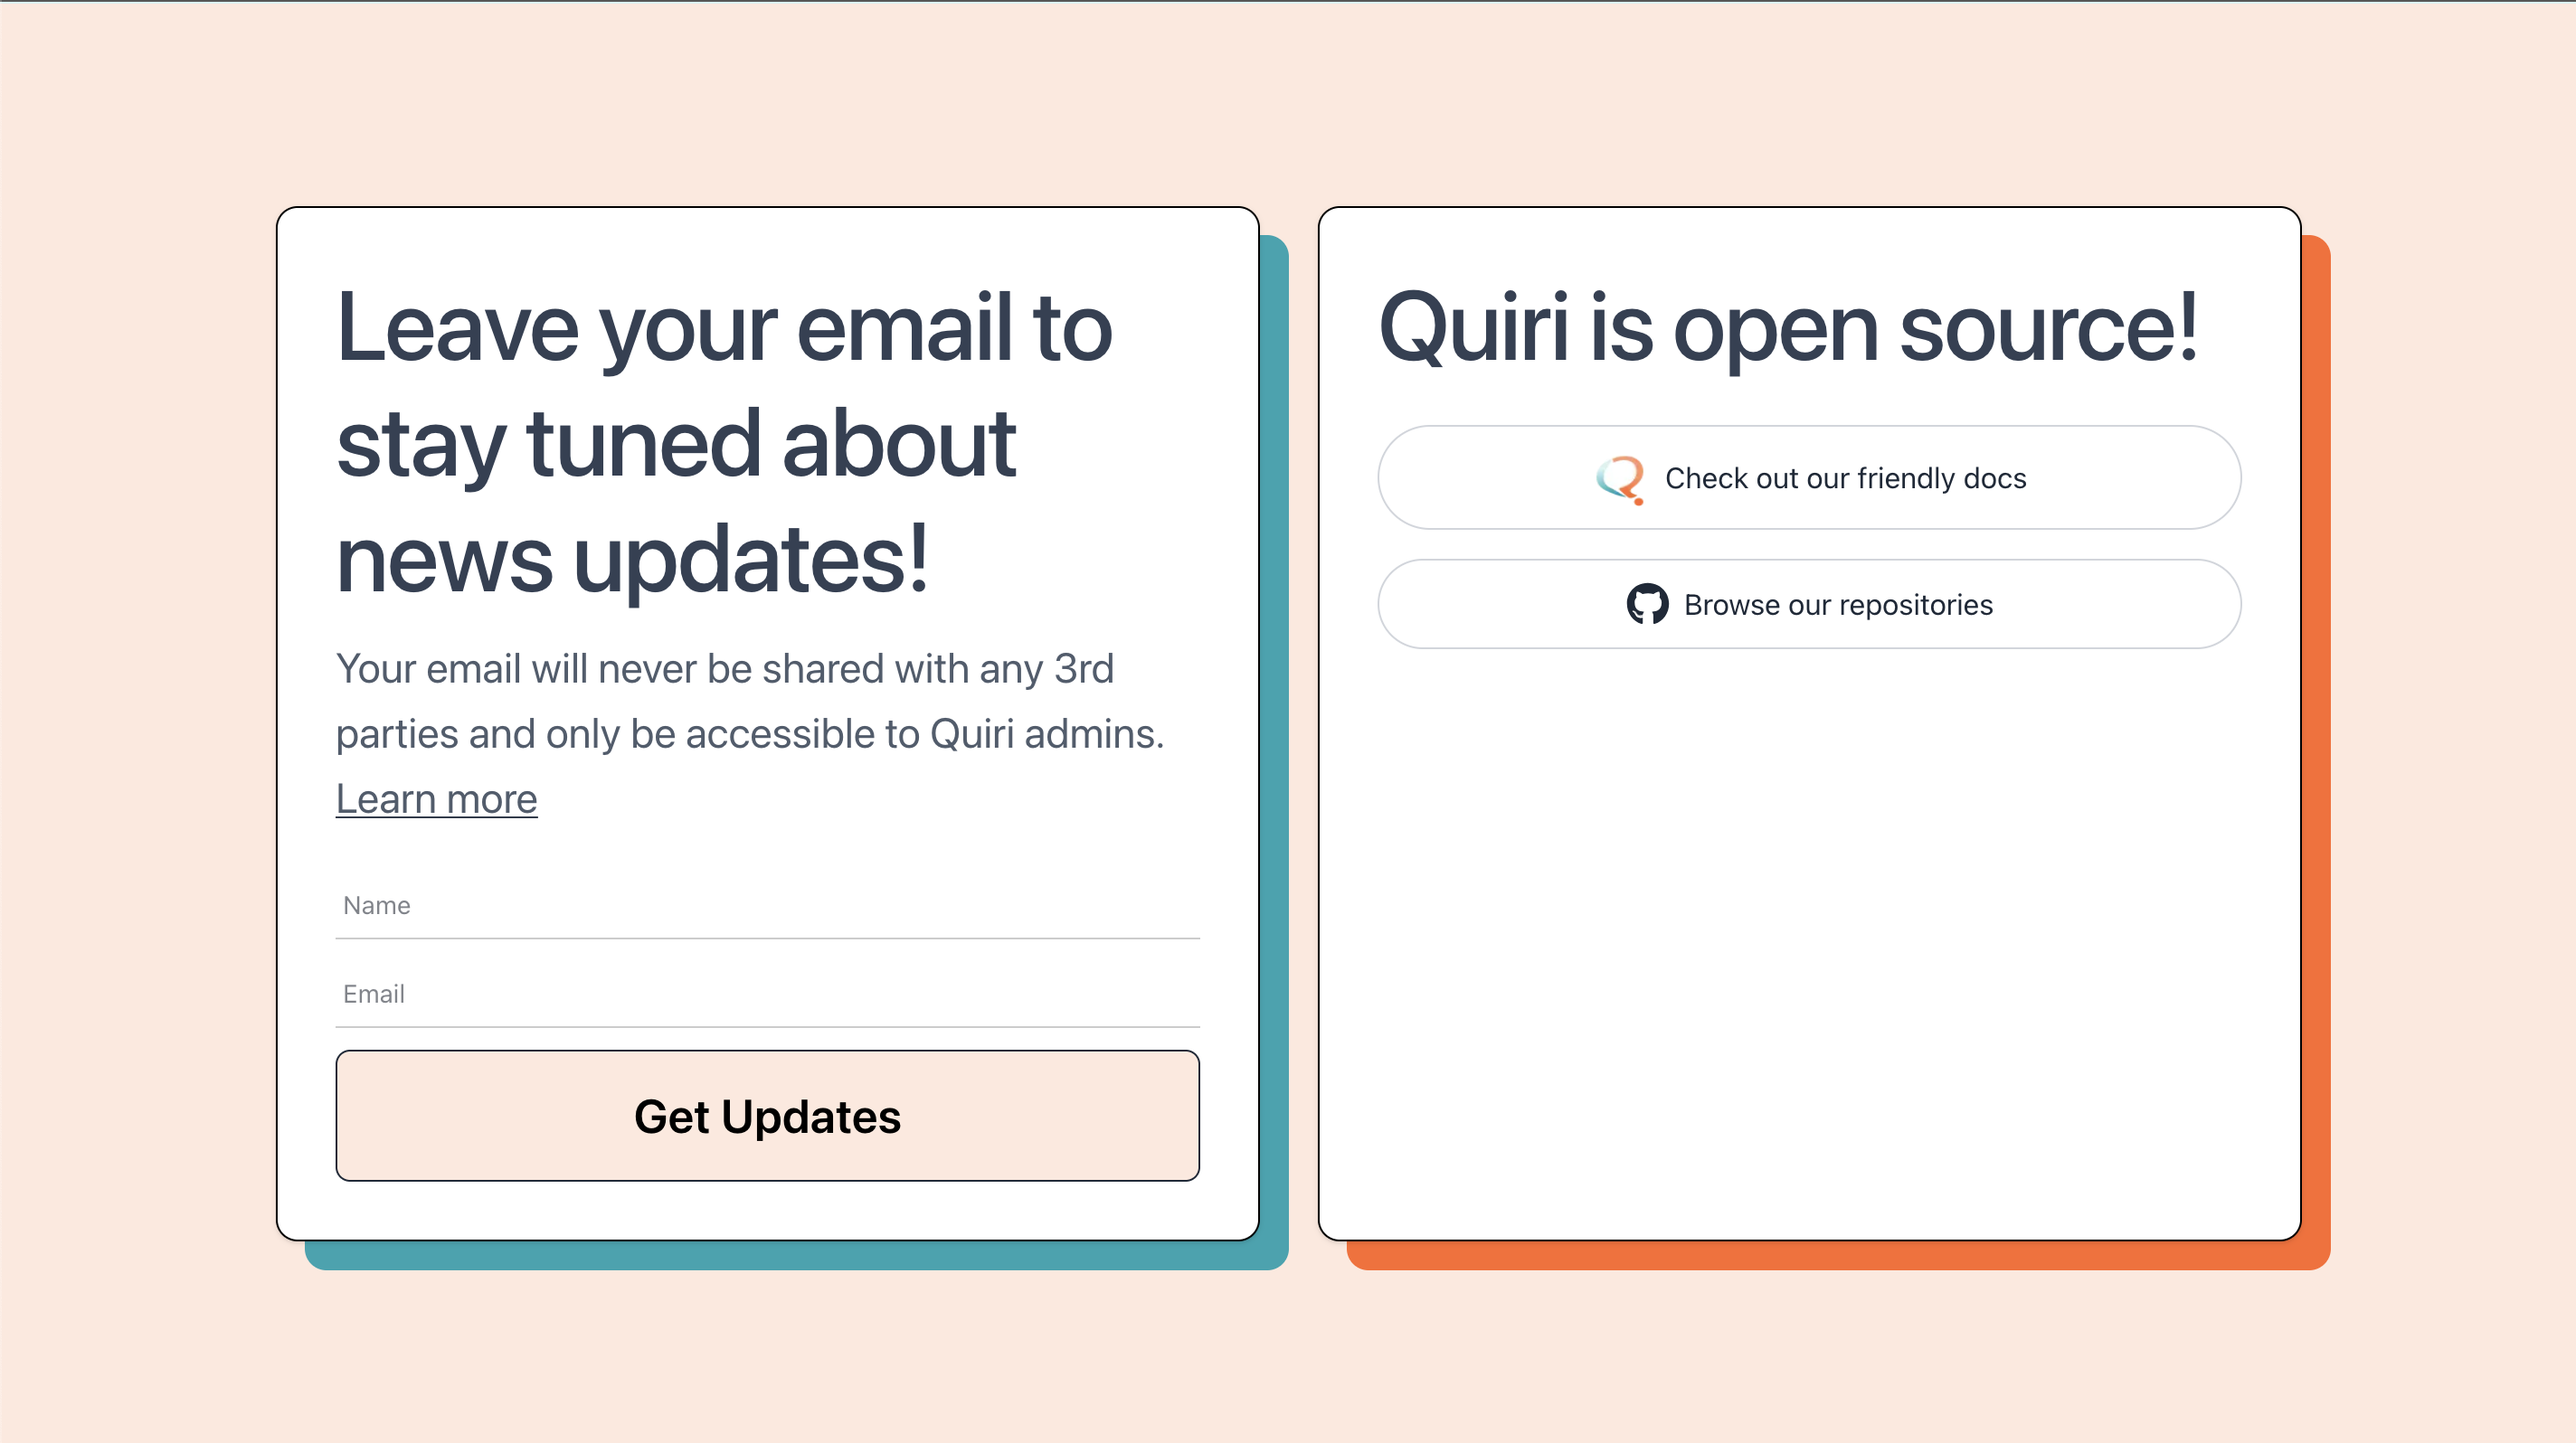
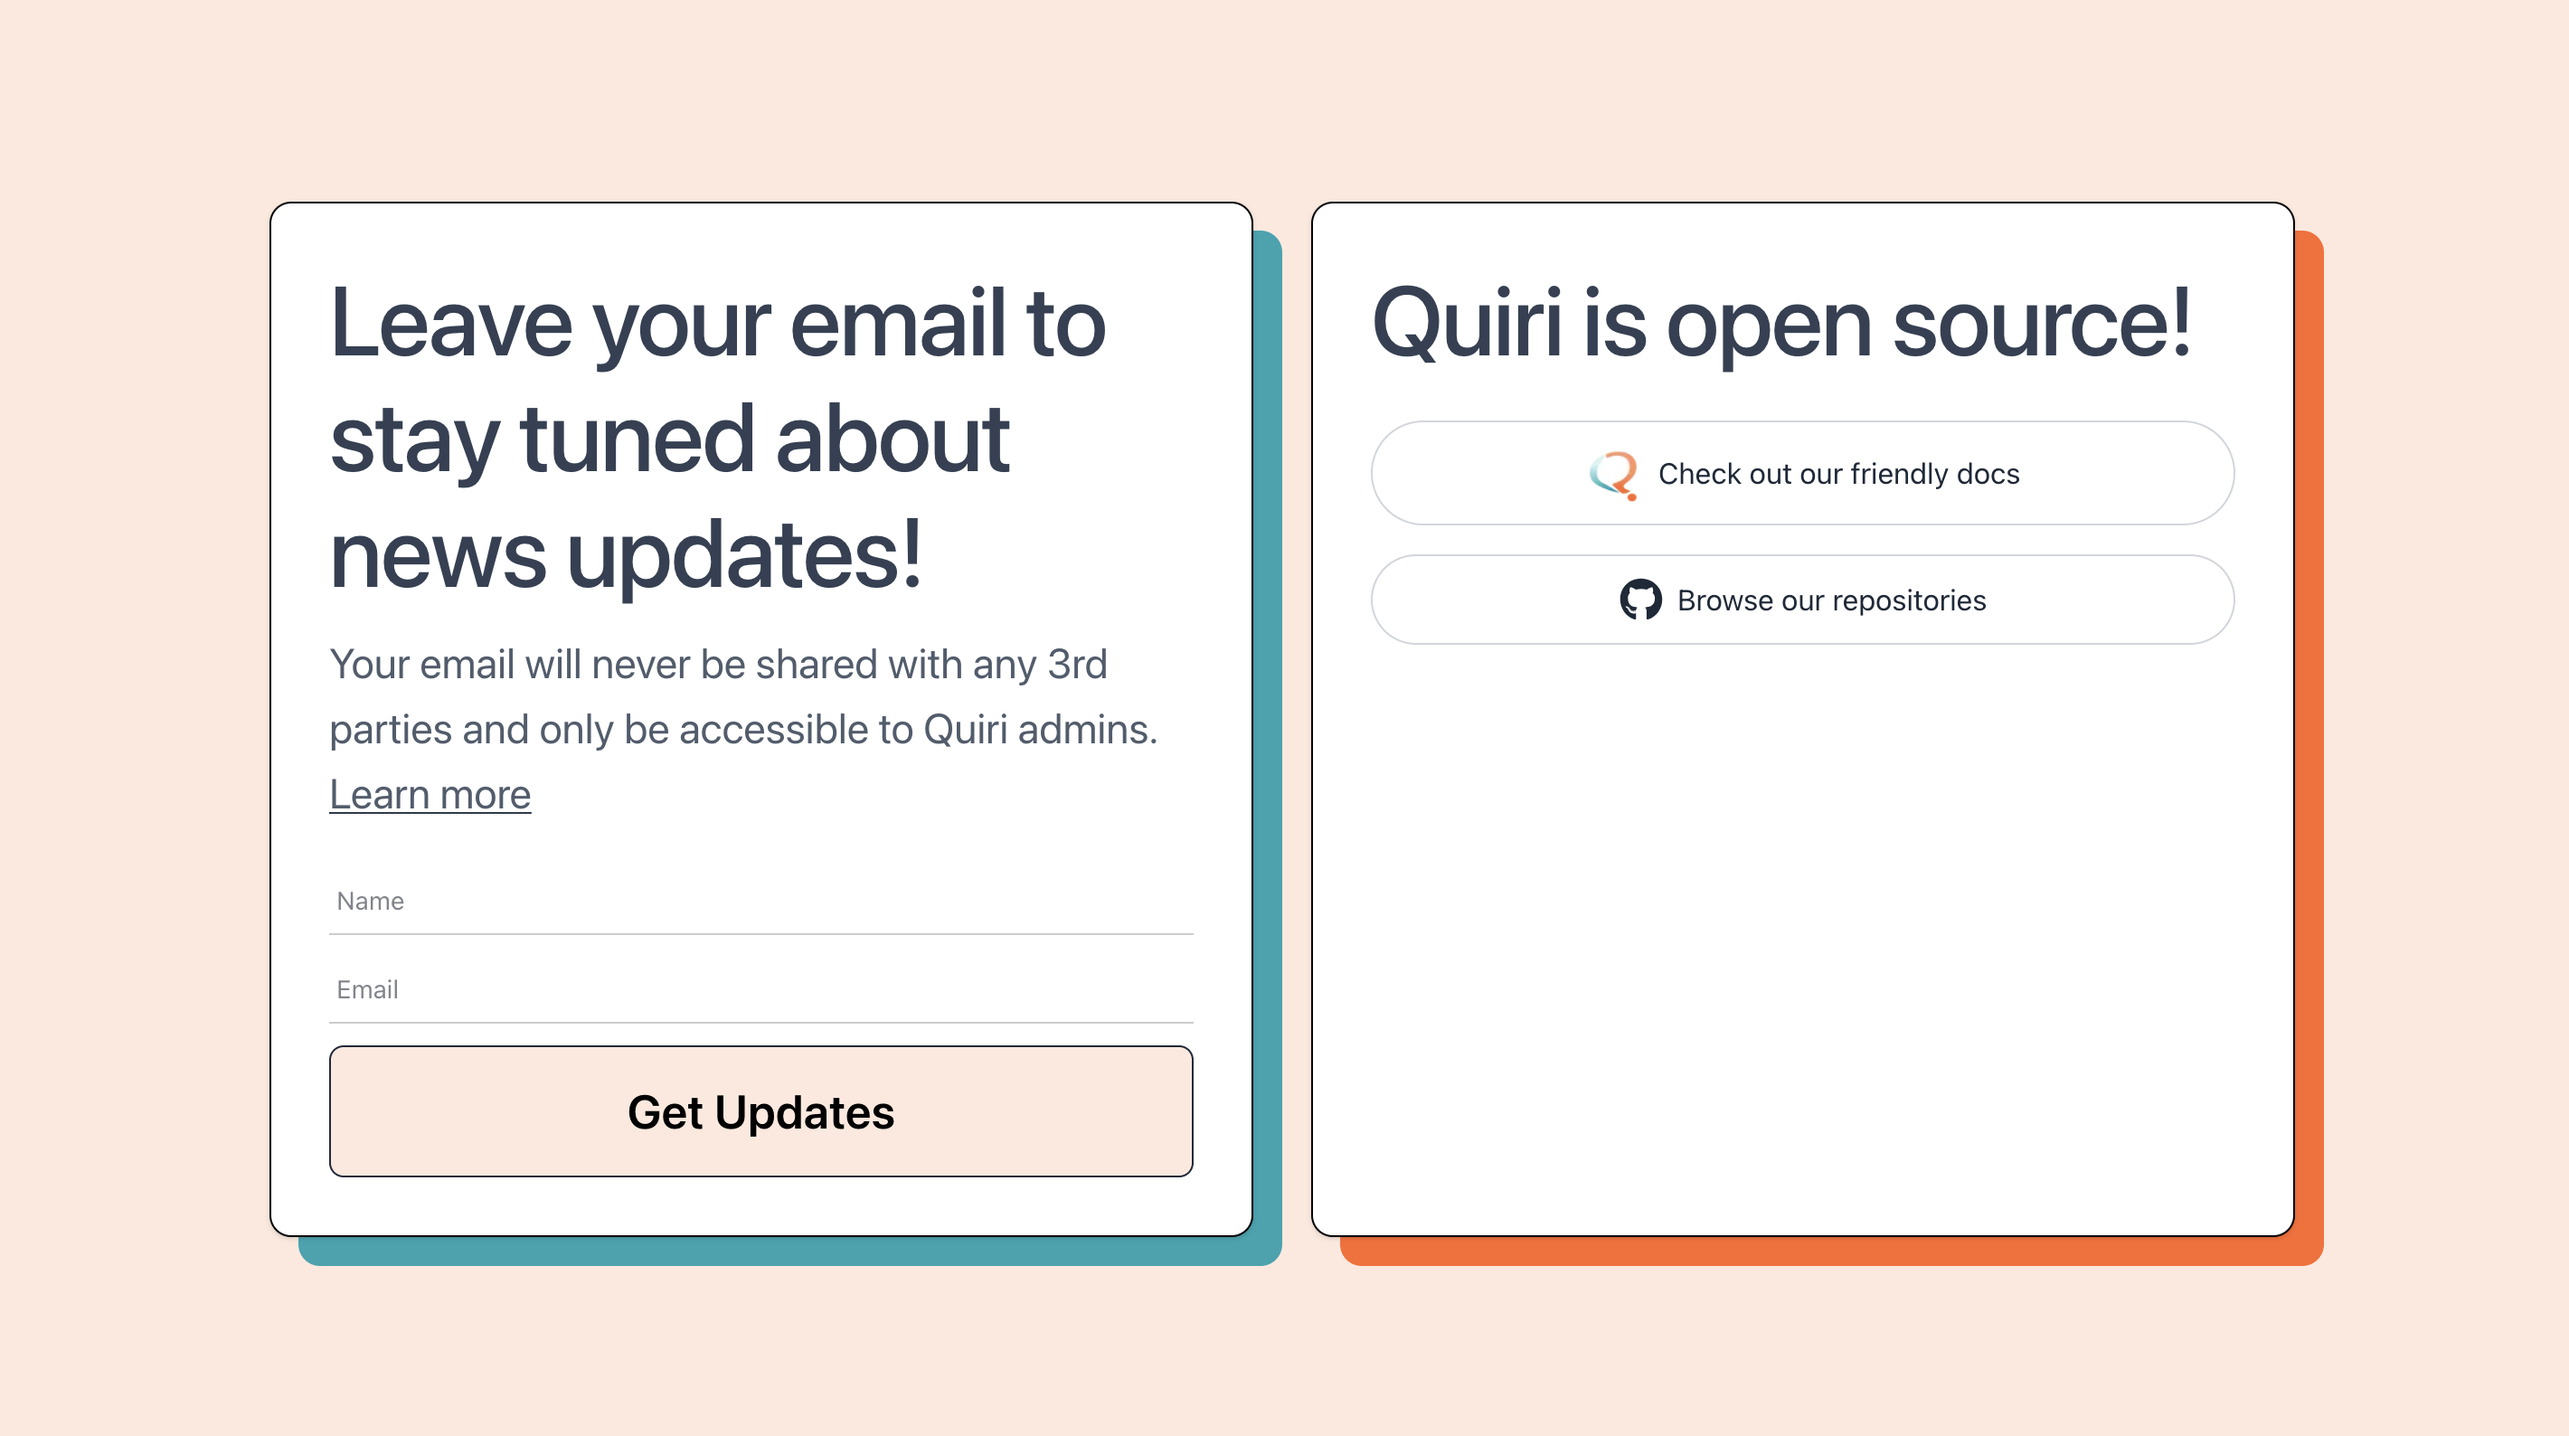
Update project links and enhance design styles for better usability

diff --git a/capsule-gallery.js b/capsule-gallery.js
@@ -52,7 +52,7 @@ const designProjects = [
       "./src/quiri-features.png",
       "./src/quiri-community.png",
     ],
-    link: "",
+    link: "https://www.quiri.io/",
   },
   {
     title: "PROJECT 6",
@@ -117,6 +117,12 @@ function openDesignProject(index) {
   // Update project link
   if (project.link) {
     designLink.href = project.link;
+    designLink.textContent = project.link.includes("behance.net")
+      ? "VIEW ON BEHANCE ↗"
+      : "VISIT WEBSITE ↗";
+
+    designLink.target = "_blank";
+    designLink.rel = "noopener noreferrer";
     designLink.hidden = false;
   } else {
     designLink.hidden = true;

diff --git a/style.css b/style.css
@@ -705,15 +705,18 @@ header .logo {
     display: flex;
     flex-direction: column;
     align-items: center;
-    gap: 12px;
+    justify-content: flex-start;
+    align-self: flex-start;
+    gap: 10px;
 }
 
 .page-design .design-project-gallery-image {
     display: block;
     width: 100%;
-    height: 350px;
+    height: auto;
+    max-height: 350px;
     object-fit: contain;
-    border-radius: 8px;
+    border-radius: 12px;
 }
 
 .page-design .design-project-gallery-controls {
